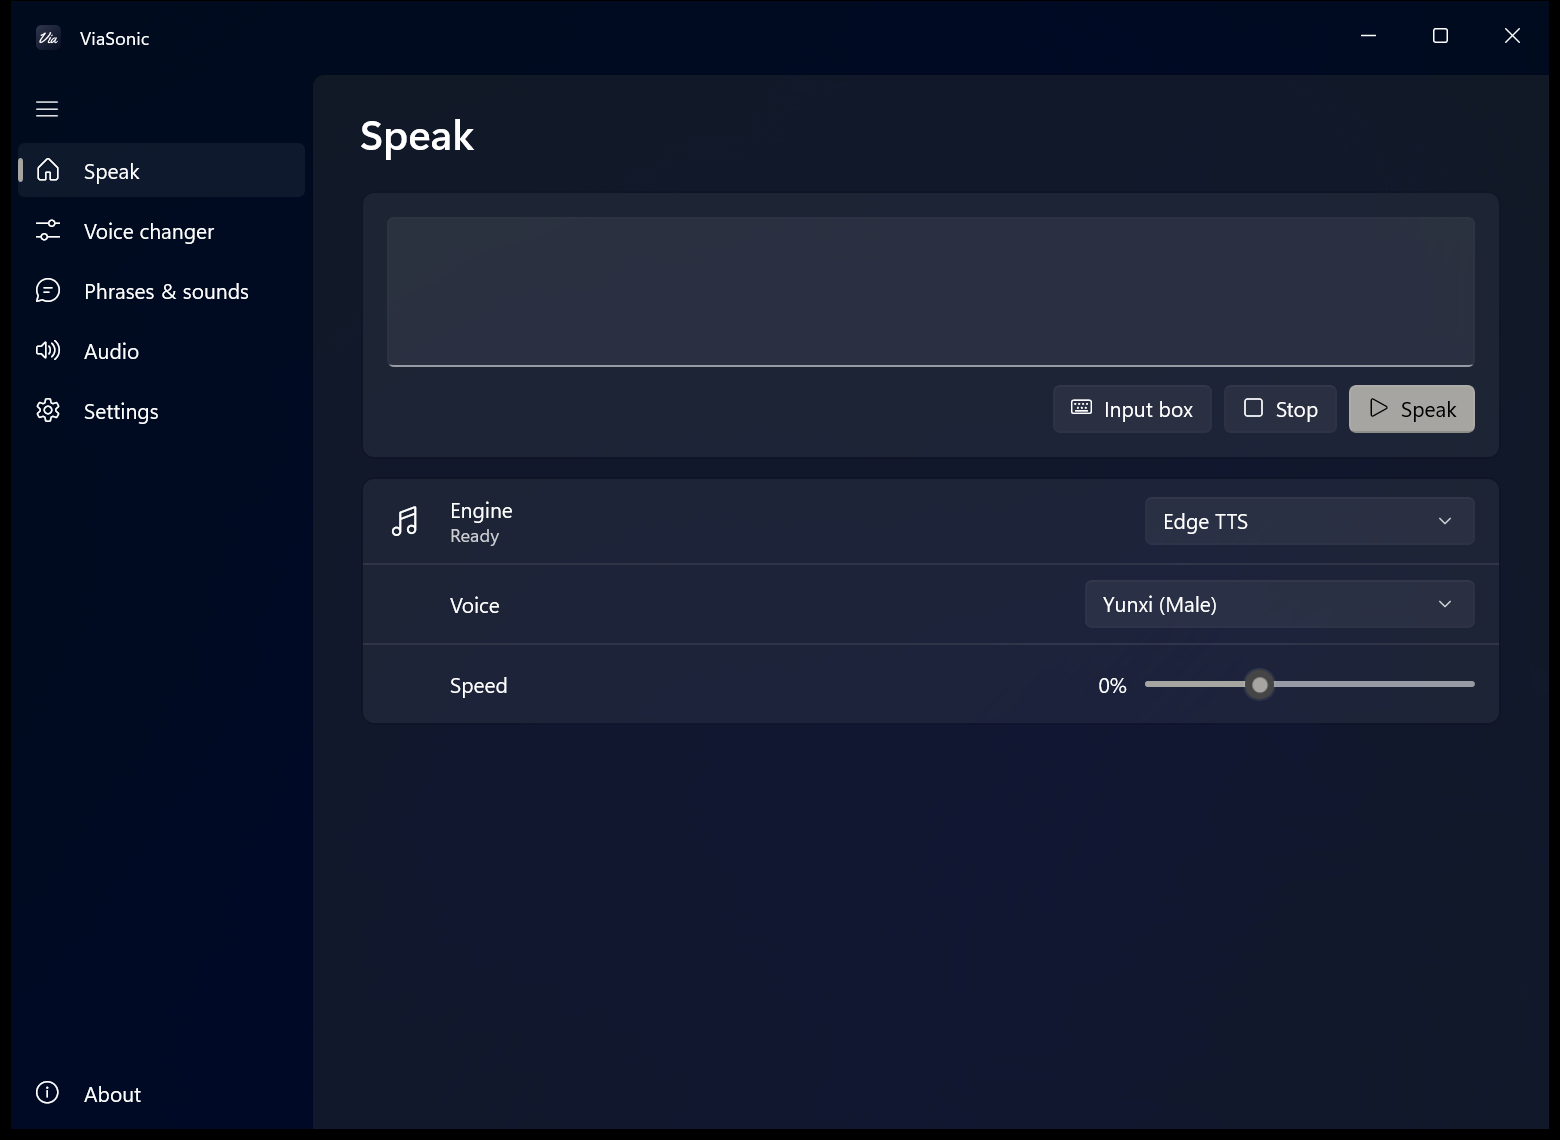
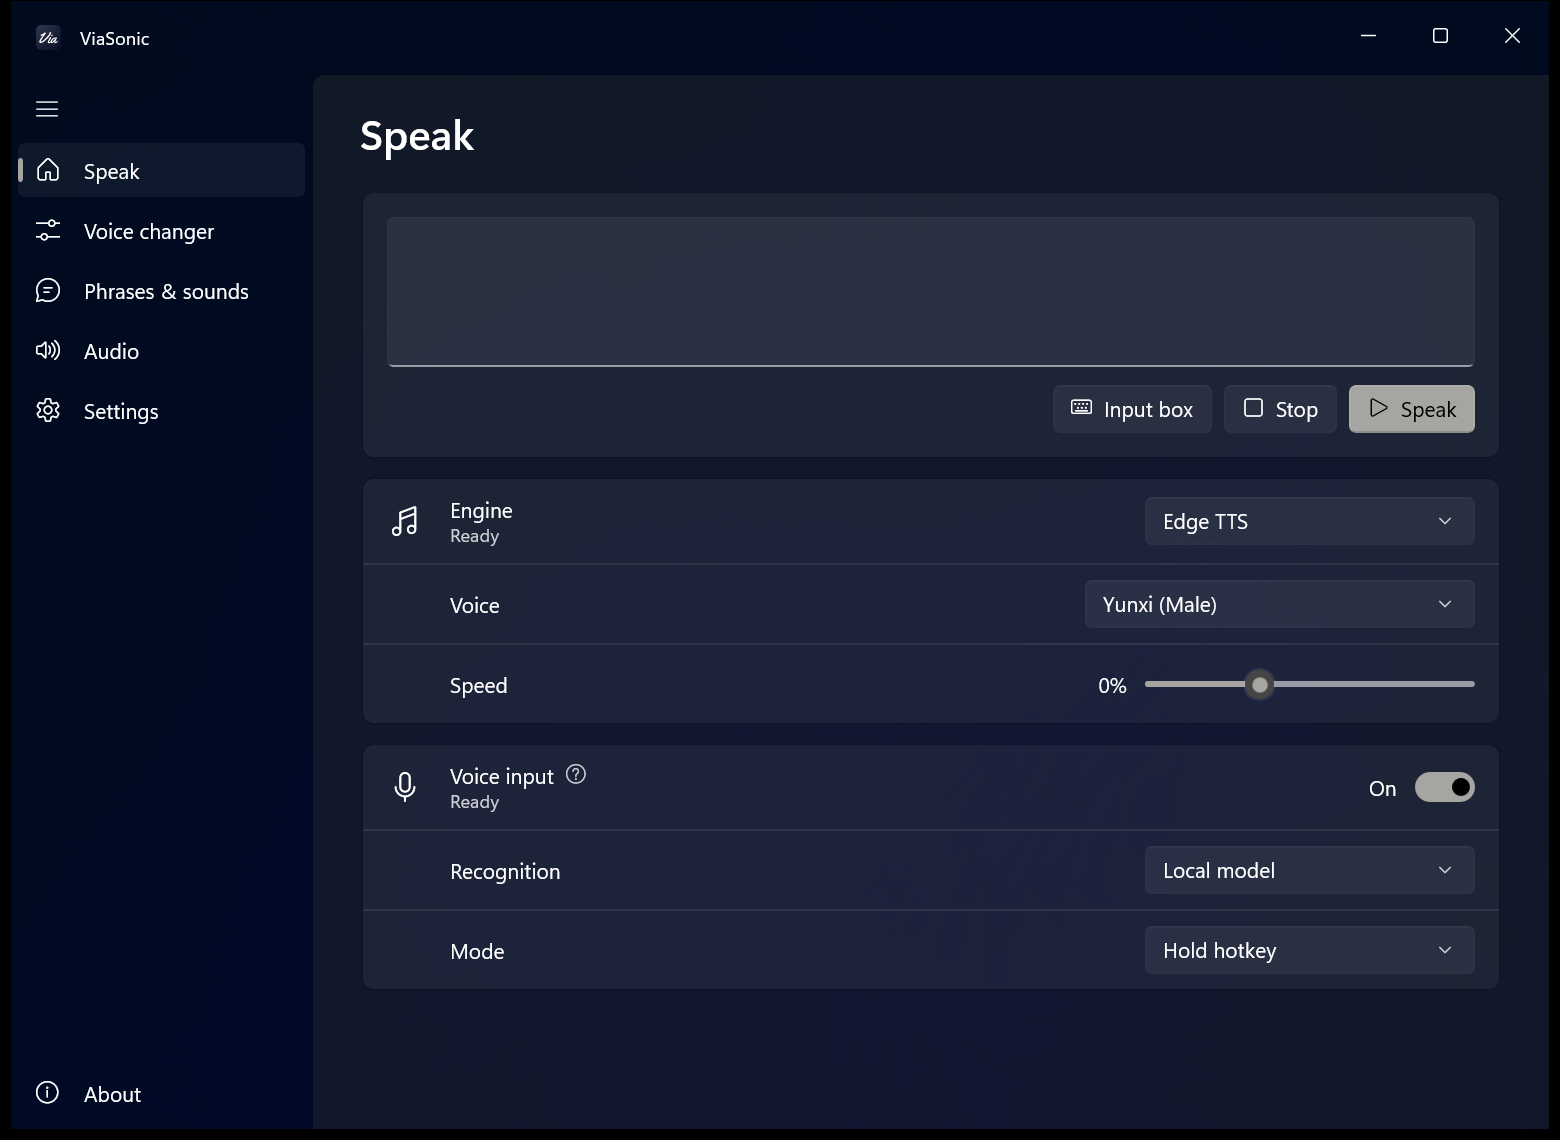
v2.1.0: voice input, iFLYTEK engine and dictation, Voicemeeter support, update README and screenshots

diff --git a/README.en.md b/README.en.md
@@ -50,9 +50,10 @@ Real-time text-to-speech, a voice changer (with RVC), phrases and sounds, and a 
 | Doubao Speech | Volcengine's speech synthesis, with Voice Clone 2.0 (clone in the console, then add the voice ID). Needs an API key, and the model must be enabled in the console. |
 | Alibaba Model Studio | Qwen3-TTS and CosyVoice. You can add cloned CosyVoice voices. Needs an API key. |
 | MiniMax | Supports cloned voices. Needs an API key. |
+| iFLYTEK | iFLYTEK Open Platform's online speech synthesis. Needs an APPID, API key and API secret; add voices in the iFLYTEK console first. |
 | Custom API | Connects to any HTTP API that returns audio, such as GPT-SoVITS, IndexTTS or CosyVoice running locally. |
 
-API keys are stored encrypted on this PC and can only be read by the current Windows user. With paid online engines, phrases are synthesized the first time you use them and cached after that.
+API keys (and the iFLYTEK API secret) are stored encrypted on this PC and can only be read by the current Windows user. With paid online engines, phrases are synthesized the first time you use them and cached after that.
 
 Download the GPT-SoVITS package from [lj1995/GPT-SoVITS-windows-package](https://huggingface.co/lj1995/GPT-SoVITS-windows-package/tree/main): choose `GPT-SoVITS-v2pro-20250604-nvidia50.7z` for RTX 50 series, or `GPT-SoVITS-v2pro-20250604.7z` for other NVIDIA GPUs (about 9 GB). To use it, choose GPT-SoVITS as the engine on the Speak page, click ⚙ next to Engine and set the package location in GPT-SoVITS folder, then click + next to Model to add a model.
 
@@ -62,14 +63,21 @@ Turn on the voice changer on the Voice changer page. Basic effects can be stacke
 
 AI voice (RVC) needs an NVIDIA GPU and the RVC package. Download it from [lj1995/VoiceConversionWebUI](https://huggingface.co/lj1995/VoiceConversionWebUI/tree/main): choose `RVC20260718Nvidia50x0.7z` for RTX 50 series, or `RVC20260718Nvidia.7z` for other NVIDIA GPUs. Extract it, then click ⚙ next to AI voice on the Voice changer page and set RVC folder. Models (.pth) in the package's `assets\weights` folder are listed automatically.
 
+## Voice input
+
+Turn on Voice input on the Speak page. What you say is turned into text and read in the current voice. Voice input and Mic passthrough can't be on at the same time: turning on voice input turns passthrough off, and turning voice input off brings it back.
+
+- Mode: Hold hotkey (set "Hold for voice input" on the Hotkeys page), or Continuous detection (reads each sentence when you finish; listening pauses during playback).
+- Recognition: a local model (SenseVoice, supports Chinese, English, Japanese, Korean and Cantonese, works offline; click Download on the card, about 230 MB), Azure Speech, Alibaba Model Studio, iFLYTEK, or an OpenAI-compatible speech-to-text API. Azure, Model Studio and iFLYTEK share their keys with the voice engines.
+
 ## Music player
 
 Play music on the Music player tab of the Phrases & sounds page. It also goes out through the virtual microphone. Add files or folders, or import .m3u / .m3u8 playlists. It supports playback speed, back 10 seconds, forward 30 seconds, crossfade and three play modes. Use Audio volume at the top right of the page to set the virtual microphone and monitor volumes separately.
 
 ## In-game setup
 
-1. Install [VB-Audio Virtual Cable](https://vb-audio.com/Cable/). The app tells you if it's missing.
-2. In your game or voice app (Discord, TeamSpeak, etc.), **set the microphone to `CABLE Output`**.
+1. Install [VB-Audio Virtual Cable](https://vb-audio.com/Cable/) or [Voicemeeter](https://vb-audio.com/Voicemeeter/). The app tells you if neither is installed.
+2. In your game or voice app (Discord, TeamSpeak, etc.), **set the microphone to `CABLE Output`**. With Voicemeeter, choose `Voicemeeter Out B1` and turn on B1 for the `Voicemeeter Input` strip in Voicemeeter.
 3. The Audio page outputs to `CABLE Input` by default, and also plays to your headphones so you can hear it.
 4. To send your microphone along with the speech, turn on Mic passthrough on the Audio page and choose your microphone.
 5. To let teammates hear music or video, turn on App audio on the Audio page and add those apps.
@@ -87,6 +95,7 @@ Play music on the Music player tab of the Phrases & sounds page. It also goes ou
 | Turn push to talk on/off | Not set |
 | Play / pause music | Not set |
 | Next | Not set |
+| Hold for voice input | Not set |
 
 Closing the main window keeps ViaSonic running in the background. Right-click the tray icon to exit.
 

diff --git a/README.md b/README.md
@@ -51,9 +51,10 @@
 | 豆包语音 | 火山引擎的语音合成，支持声音复刻 2.0（在控制台复刻后添加音色 ID）。需要 API Key，并在控制台开通对应的模型。 |
 | 阿里云百炼 | Qwen3-TTS 和 CosyVoice，CosyVoice 可以添加复刻音色。需要 API Key。 |
 | MiniMax | 支持复刻音色，需要 API Key。 |
+| 讯飞语音 | 讯飞开放平台的在线语音合成。需要 APPID、API Key 和 API Secret，音色要先在讯飞控制台添加。 |
 | 自定义接口 | 连接任意返回音频的 HTTP 接口，例如本地运行的 GPT-SoVITS、IndexTTS、CosyVoice。 |
 
-API Key 加密保存在本机，只有当前 Windows 用户能读取。联网付费引擎的常用语在第一次使用时合成，之后用缓存。
+API Key（以及讯飞的 API Secret）加密保存在本机，只有当前 Windows 用户能读取。联网付费引擎的常用语在第一次使用时合成，之后用缓存。
 
 GPT-SoVITS 整合包从 [lj1995/GPT-SoVITS-windows-package](https://huggingface.co/lj1995/GPT-SoVITS-windows-package/tree/main) 下载：RTX 50 系选择 `GPT-SoVITS-v2pro-20250604-nvidia50.7z`，其他 NVIDIA 显卡选择 `GPT-SoVITS-v2pro-20250604.7z`（约 9GB）。需要使用时，在「朗读」页把引擎选成 GPT-SoVITS，点「引擎」旁边的 ⚙，在「GPT-SoVITS 目录」指定整合包位置，然后在「模型」里点击加号添加模型。
 
@@ -63,14 +64,21 @@ GPT-SoVITS 整合包从 [lj1995/GPT-SoVITS-windows-package](https://huggingface.
 
 AI 变声（RVC）需要 NVIDIA 显卡和 RVC 整合包。从 [lj1995/VoiceConversionWebUI](https://huggingface.co/lj1995/VoiceConversionWebUI/tree/main) 下载：RTX 50 系选择 `RVC20260718Nvidia50x0.7z`，其他 NVIDIA 显卡选择 `RVC20260718Nvidia.7z`。解压后在「变声」页「AI 变声」右边的 ⚙ 里指定「RVC 目录」。模型（.pth）放进整合包的 `assets\weights` 文件夹会自动列出。
 
+## 语音输入
+
+在「朗读」页打开「语音输入」，说的话会识别成文字，再用当前音色朗读。语音输入和「麦克风直通」只能开一个：打开语音输入时直通会自动关掉，关掉语音输入后恢复。
+
+- 方式：「按住快捷键」，在「快捷键」页设置「按住语音输入」；或者「持续检测」，说完一句自动朗读，朗读时暂停识别。
+- 识别：本地模型（SenseVoice，支持中英日韩粤，不联网，在卡片里点「下载」，约 230 MB）、Azure 语音、阿里云百炼、讯飞语音，或兼容 OpenAI 的语音转文字接口。Azure、百炼、讯飞的 Key 和朗读引擎共用。
+
 ## 音乐播放器
 
 在「常用语与音效」页的「音乐播放器」标签里播放音乐，同样通过虚拟麦克风输出。可以添加文件、文件夹或导入 .m3u / .m3u8 歌单，支持倍速、后退 10 秒、前进 30 秒、交叉过渡和三种播放模式。音量在页面右上角的「音频音量」里，进虚拟麦克风和进监听的分开调。
 
 ## 游戏内设置
 
-1. 安装 [VB-Audio Virtual Cable](https://vb-audio.com/Cable/)，未安装时软件会提示。
-2. 在游戏或语音软件（Discord、KOOK、Oopz 等）里把**麦克风设置为 `CABLE Output`**。
+1. 安装 [VB-Audio Virtual Cable](https://vb-audio.com/Cable/) 或 [Voicemeeter](https://vb-audio.com/Voicemeeter/)，都没装时软件会提示。
+2. 在游戏或语音软件（Discord、KOOK、Oopz 等）里把**麦克风设置为 `CABLE Output`**。用 Voicemeeter 时选 `Voicemeeter Out B1`，并在 Voicemeeter 里打开 `Voicemeeter Input` 那一路的 B1。
 3. 「音频」页默认自动输出到 `CABLE Input`，同时在耳机里监听。
 4. 同时接入麦克风和文本生成的语音，需在「音频」页打开「麦克风直通」并选择你的麦克风。
 5. 想让队友听到音乐或视频的声音，在「音频」页打开「应用声音」，添加对应的应用。
@@ -88,6 +96,7 @@ AI 变声（RVC）需要 NVIDIA 显卡和 RVC 整合包。从 [lj1995/VoiceConve
 | 打开 / 关闭按键说话 | 未设置 |
 | 播放 / 暂停音乐 | 未设置 |
 | 下一首 | 未设置 |
+| 按住语音输入 | 未设置 |
 
 关闭主窗口后，软件会在后台运行，右键系统托盘图标退出。
 
